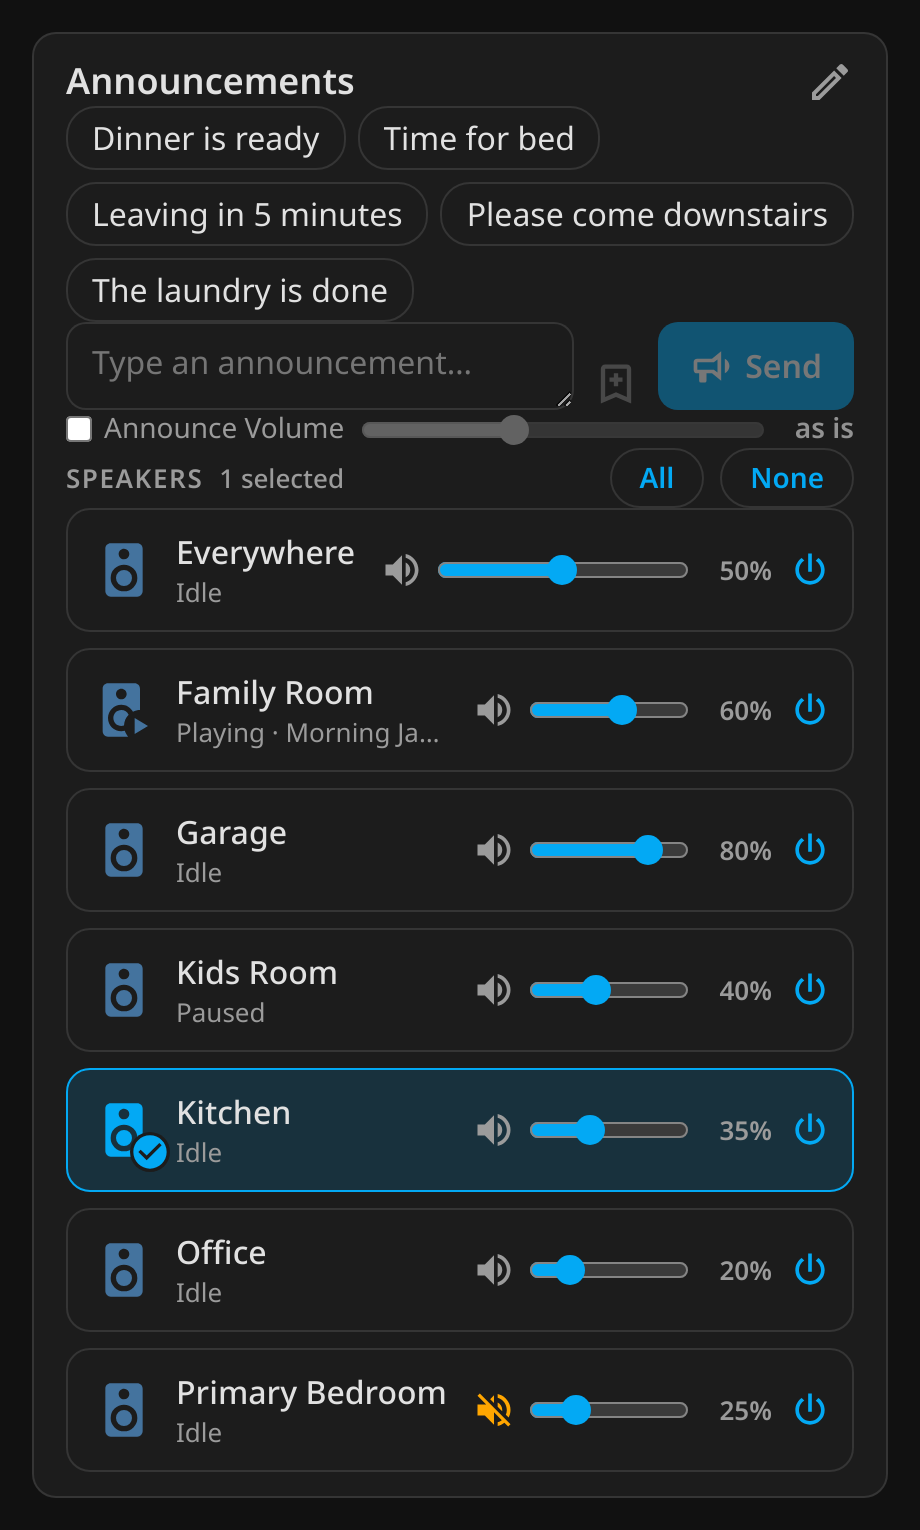
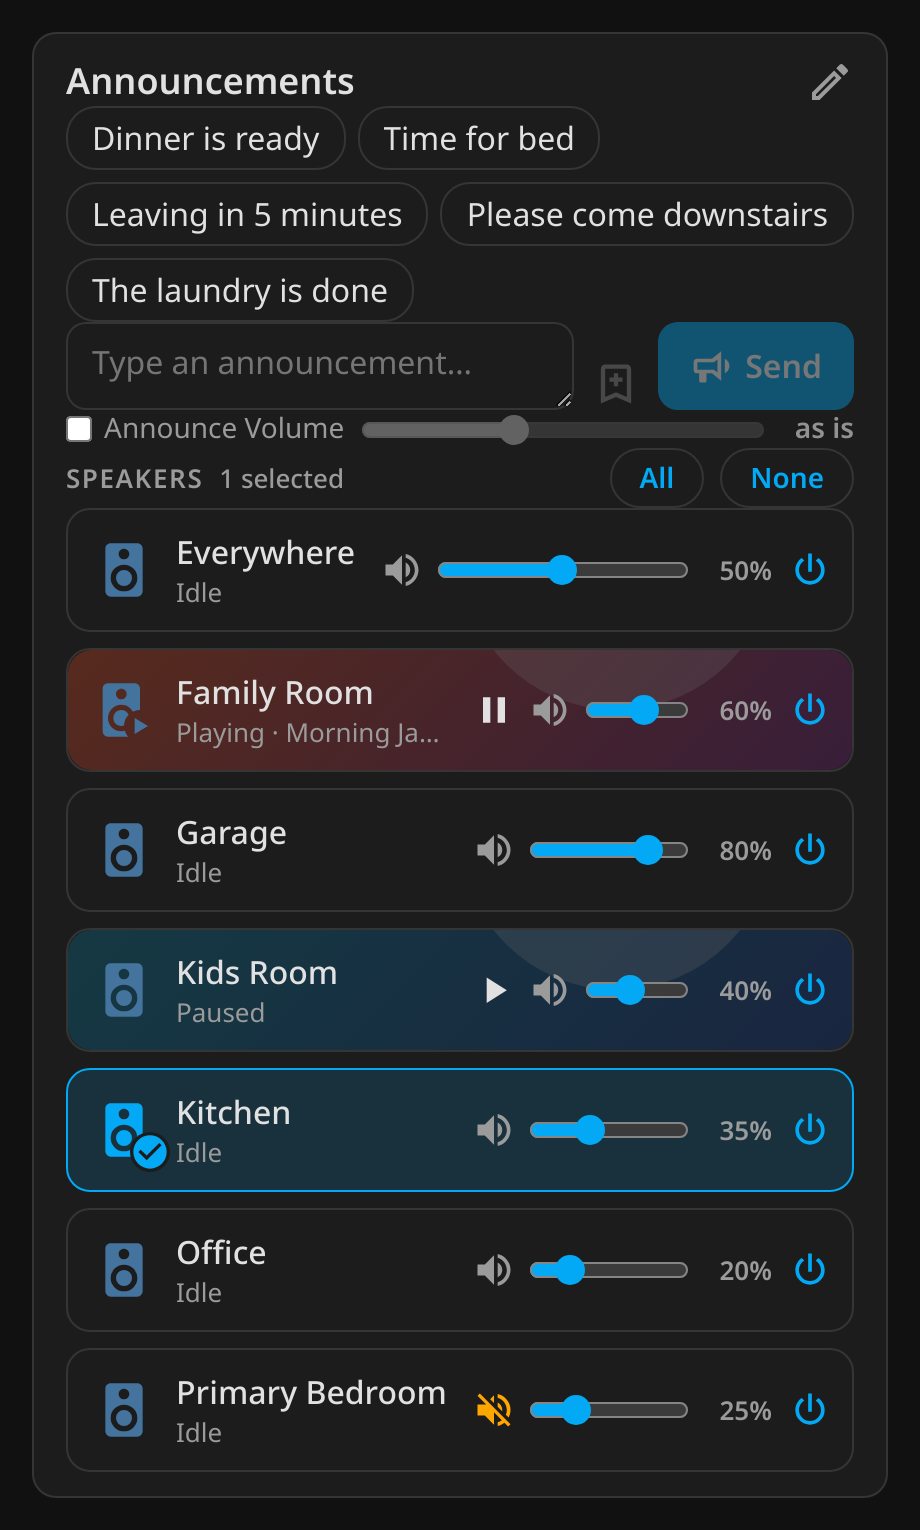
v2026.11.23.8: Pause button; artwork as the tile background or thumbnail

Changed region(s): [[0.0609, 0.5837, 0.9435, 0.7065], [0.0609, 0.3993, 0.9435, 0.5222]]

diff --git a/easy-announce-card.js b/easy-announce-card.js
@@ -1,5 +1,5 @@
 // Easy Announce Card (Ltek) — Home Assistant Dashboard card for Alexa announcements
-// Version: v2026.11.19.7
+// Version: v2026.11.23.8
 //
 // Type a message (or tap a preset), pick the speakers, press Send. One call reaches every
 // selected speaker:
@@ -30,7 +30,7 @@
 // interpolated into it); per-card values are custom properties set inline on the card root.
 // The card renders once and patches itself on every state change.
 
-const BUILD_NUMBER = 'v2026.11.19.7';
+const BUILD_NUMBER = 'v2026.11.23.8';
 const VERSION = BUILD_NUMBER.slice(1);
 const CARD_TAG = 'easy-announce-card';
 const EDITOR_TAG = 'easy-announce-card-editor';
@@ -41,7 +41,7 @@ const ALEXA_PLATFORM = 'alexa_media';
 const PLACEHOLDERS = new Set(['', '---', '--', '-', 'select...', 'select…', 'select', 'none', 'unknown']);
 const UNAVAILABLE = new Set(['unavailable', 'unknown']);
 // media_player supported_features bits (MediaPlayerEntityFeature)
-const FEAT = { VOLUME_SET: 4, VOLUME_MUTE: 8, TURN_ON: 128, TURN_OFF: 256 };
+const FEAT = { PAUSE: 1, VOLUME_SET: 4, VOLUME_MUTE: 8, TURN_ON: 128, TURN_OFF: 256, STOP: 4096, PLAY: 16384 };
 // Pause after setting the announcement volume, so the speaker has it before the announcement starts.
 const VOLUME_SETTLE_MS = 500;
 
@@ -82,6 +82,9 @@ const DEFAULTS = {
   show_volume_value: true,
   show_mute: true,
   show_power: false,
+  show_pause: true,
+  artwork: 'background',
+  artwork_opacity: 35,
   show_announce_volume: true,
   announce_volume: 0,
   restore_volume: true,
@@ -120,6 +123,7 @@ const ICON_ITEMS = [
   ['check_icon', 'Selected check mark', 20, 'Selected color', '#03a9f4', 'var(--ean-c-selected)'],
   ['mute_icon', 'Mute button', 22, ...ICO, ['mute_icon_muted_color', 'When muted', 'Theme warning', '#ffa600', 'var(--warning-color, #f4b942)']],
   ['power_icon', 'Power button', 22, ...ICO, ['power_icon_on_color', 'When on', 'Selected color', '#03a9f4', 'var(--ean-c-selected)']],
+  ['pause_icon', 'Pause / play button', 22, 'Theme text', '#e1e1e1', 'var(--primary-text-color)'],
 ];
 const WEIGHTS = [[300, 'Light'], [400, 'Normal'], [500, 'Medium'], [600, 'Semibold'], [700, 'Bold'], [800, 'Extra bold']];
 for (const [item, , size, weight] of TEXT_ITEMS) { DEFAULTS[`${item}_size`] = size; DEFAULTS[`${item}_weight`] = weight; }
@@ -151,7 +155,7 @@ const BORDER_STYLES = [['solid', 'Solid'], ['dashed', 'Dashed'], ['dotted', 'Dot
 // What a speaker tile is styled with; the Everywhere tile can override every one of them
 // (everywhere_<key>; unset = the same as the other tiles).
 const TILE_TEXT = ['name', 'state', 'vol_value'];
-const TILE_ICONS = ['speaker_icon', 'check_icon', 'mute_icon', 'power_icon'];
+const TILE_ICONS = ['speaker_icon', 'check_icon', 'mute_icon', 'power_icon', 'pause_icon'];
 const EW = 'everywhere_';
 for (const d of COLOR_DEFS.filter(([k]) => FRAME_COLORS.some(([f]) => f === k) || TILE_TEXT.some((i) => k === `${i}_color`)
   || TILE_ICONS.some((i) => k === `${i}_color` || k.startsWith(`${i}_`) && k.endsWith('_color')))) {
@@ -324,15 +328,44 @@ function placeEverywhere(list, c) {
 function features(st) { return Number((st && st.attributes && st.attributes.supported_features) || 0); }
 const can = (s, bit) => (s.features & bit) === bit;
 
-/** Which controls a speaker's tile shows: { volume, mute, power }, by option and by what it supports. */
+/** Which controls a speaker's tile shows: { volume, mute, power, pause }, by option and by what it supports. */
 function tileControls(c, s) {
-  if (!s.available) return { volume: false, mute: false, power: false };
+  if (!s.available) return { volume: false, mute: false, power: false, pause: false };
   return {
     volume: !!cfg(c, 'show_volume') && can(s, FEAT.VOLUME_SET),
     mute: !!cfg(c, 'show_mute') && can(s, FEAT.VOLUME_MUTE),
     power: !!cfg(c, 'show_power') && (can(s, FEAT.TURN_ON) || can(s, FEAT.TURN_OFF)),
+    pause: !!cfg(c, 'show_pause') && (can(s, FEAT.PAUSE) || can(s, FEAT.STOP)),
   };
 }
+
+/**
+ * The pause button for a speaker's state: null when there's nothing to pause or resume (it hides),
+ * else { icon, title, service }. Playing → pause (stop if it can't pause); paused → play.
+ */
+function pauseAction(st) {
+  if (!st) return null;
+  const f = features(st);
+  if (st.state === 'playing' || st.state === 'buffering') {
+    return (f & FEAT.PAUSE) ? { icon: 'mdi:pause', title: 'Pause', service: 'media_pause' }
+      : (f & FEAT.STOP) ? { icon: 'mdi:stop', title: 'Stop', service: 'media_stop' } : null;
+  }
+  if (st.state === 'paused') {
+    return (f & FEAT.PLAY) ? { icon: 'mdi:play', title: 'Play', service: 'media_play' }
+      : (f & FEAT.PAUSE) ? { icon: 'mdi:play', title: 'Play', service: 'media_play_pause' } : null;
+  }
+  return null;
+}
+
+/** The artwork to show for a speaker: its entity_picture while it's playing or paused, else ''. */
+function artworkUrl(st) {
+  if (!st || !['playing', 'paused', 'buffering'].includes(st.state)) return '';
+  const a = st.attributes || {};
+  return typeof a.entity_picture === 'string' ? a.entity_picture.trim() : '';
+}
+
+/** A url() for CSS from an untrusted string, quoted so it can't break out of the property. */
+const cssUrl = (u) => `url("${String(u).replace(/[\\"\n\r]/g, (ch) => (ch === '\n' || ch === '\r' ? '' : `\\${ch}`))}")`;
 
 /** How long to wait before restoring the volume, in ms: the set time, or chime + ~14 characters a second. */
 function restoreDelayMs(c, message) {
@@ -524,6 +557,16 @@ const CARD_CSS = `
     color: var(--primary-text-color); font-family: inherit; text-align: left; transition: border-color .15s ease, background-color .15s ease; }
   .tile:hover { border-color: color-mix(in srgb, var(--ean-c-selected) 60%, var(--ean-tile-bc)); }
   .tile.on { border-color: var(--ean-tile-bc-on); background: var(--ean-tile-bg-on); }
+  /* Artwork: behind everything in the tile (background), or in place of the speaker icon (thumbnail). */
+  .tile .art { position: absolute; inset: 0; border-radius: inherit; background-size: cover; background-position: center; opacity: var(--ean-art-op);
+    pointer-events: none; display: none; }
+  .tile.has-art .art { display: block; }
+  .tile > .tile-top, .tile > .ctl { position: relative; z-index: 1; }
+  .tile > .tile-power, .tile > .tile-pause { z-index: 1; }
+  .spk-wrap .thumb { display: none; width: var(--ean-speaker_icon-sz); height: var(--ean-speaker_icon-sz); border-radius: 6px;
+    background-size: cover; background-position: center; }
+  .tile.has-thumb .spk-wrap .thumb { display: block; }
+  .tile.has-thumb .spk-wrap .spk-icon { display: none; }
   .tile.off { opacity: .45; cursor: default; }
   .tile.tile-row { grid-column: 1 / -1; }
   .tile:focus-visible { outline: 2px solid var(--ean-c-selected); outline-offset: 1px; }
@@ -541,6 +584,11 @@ const CARD_CSS = `
   /* Power sits in the tile's top right corner. */
   .tile .tile-power { position: absolute; top: 8px; right: 10px; }
   .tile.compact .tile-power { top: 50%; transform: translateY(-50%); }
+  .tile .tile-pause { position: absolute; top: 8px; right: 10px; }
+  .tile.has-power .tile-pause { right: calc(var(--ean-power_icon-sz) + 20px); }
+  /* Room for the corner buttons beside the name, only while the pause button shows. */
+  .tile.pausing:not(.compact) .txt { padding-right: calc(var(--ean-pause_icon-sz) + 6px); }
+  .tile.pausing.has-power:not(.compact) .txt { padding-right: calc(var(--ean-pause_icon-sz) + var(--ean-power_icon-sz) + 16px); }
   .vol-val { flex: none; min-width: 2.7em; text-align: right; font-variant-numeric: tabular-nums; white-space: nowrap;
     font-size: var(--ean-vol_value-fs); font-weight: var(--ean-vol_value-fw); color: var(--ean-vol_value-c); }
   .ctl { display: flex; align-items: center; gap: 6px; min-width: 0; cursor: default; }
@@ -551,6 +599,9 @@ const CARD_CSS = `
   .ctl-btn[data-power] { color: var(--ean-power_icon-c); }
   .ctl-btn[data-power] ha-icon { --mdc-icon-size: var(--ean-power_icon-sz); width: var(--ean-power_icon-sz); height: var(--ean-power_icon-sz); }
   .ctl-btn[data-power].on { color: var(--ean-power_icon_on-c); }
+  .ctl-btn[data-pause] { color: var(--ean-pause_icon-c); }
+  .ctl-btn[data-pause] ha-icon { --mdc-icon-size: var(--ean-pause_icon-sz); width: var(--ean-pause_icon-sz); height: var(--ean-pause_icon-sz); }
+  .ctl-btn[data-pause][hidden] { display: none; }
   input.vol { flex: 1 1 auto; min-width: 0; width: 100%; margin: 0; accent-color: var(--ean-c-selected); cursor: pointer; }
   .avol { display: flex; align-items: center; gap: 8px; font-size: var(--ean-avol-fs); font-weight: var(--ean-avol-fw); color: var(--ean-avol-c); }
   .avol label { display: inline-flex; align-items: center; gap: 6px; cursor: pointer; white-space: nowrap; }
@@ -618,6 +669,7 @@ function rootStyleVars(c) {
   return [
     `--ean-cols-l:${gridColumns(cfg(c, 'columns_landscape'), c)}`, `--ean-cols-p:${gridColumns(cfg(c, 'columns_portrait'), c)}`,
     ...FRAME_COLORS.map(([k]) => `--ean-${FRAME_VAR[k]}:${color(k)}`),
+    `--ean-art-op:${Math.max(5, Math.min(100, Number(cfg(c, 'artwork_opacity')) || 35)) / 100}`,
     `--ean-tile-bw:${px('tile_border_width')}`, `--ean-tile-r:${px('tile_border_radius')}`, `--ean-tile-bs:${borderStyle(cfg(c, 'tile_border_style'))}`,
     `--ean-c-selected:${color('color_selected')}`, `--ean-c-send:${color('color_send')}`,
     ...TEXT_ITEMS.flatMap(([item]) => [`--ean-${item}-fs:${px(`${item}_size`)}`, `--ean-${item}-fw:${Number(cfg(c, `${item}_weight`))}`,
@@ -766,19 +818,27 @@ class EasyAnnounceCard extends HTMLElement {
     }
     const showState = this._c('show_state');
     const ewVars = everywhereStyleVars(this._config);
+    const art = this._c('artwork');
+    const compact = this._c('tile_layout') === 'compact';
+    // Pause: in the controls row on compact tiles; in the top corner (beside power) on stacked tiles,
+    // where the controls row has no room to spare. data-ctl: it never selects the tile.
+    const pauseBtn = (cls, id) => `<button class="ctl-btn${cls}" data-ctl data-pause="${id}" title="Pause" hidden><ha-icon icon="mdi:pause"></ha-icon></button>`;
     return this._speakers.map((s) => {
       const k = tileControls(this._config, s);
       const id = esc(s.id);
-      const ctl = k.volume || k.mute ? `<div class="ctl" data-ctl>
+      const ctl = k.volume || k.mute || k.pause ? `<div class="ctl" data-ctl>
+          ${k.pause && compact ? pauseBtn('', id) : ''}
           ${k.mute ? `<button class="ctl-btn" data-mute="${id}" title="Mute"><ha-icon icon="mdi:volume-high"></ha-icon></button>` : ''}
           ${k.volume ? `<input type="range" class="vol" data-vol="${id}" min="0" max="100" step="1" aria-label="Volume">` : ''}
           ${k.volume && this._c('show_volume_value') ? `<span class="vol-val" data-vol-val></span>` : ''}</div>` : '';
       // data-ctl: tapping the power button never selects the tile.
+      const corner = k.pause && !compact ? pauseBtn(' tile-pause', id) : '';
       const power = k.power ? `<button class="ctl-btn tile-power" data-ctl data-power="${id}" title="Power"><ha-icon icon="mdi:power"></ha-icon></button>` : '';
       return `<div class="tile${s.everywhere === 'row' ? ' tile-row' : ''}${this._c('tile_layout') === 'compact' ? ' compact' : ''}${k.power ? ' has-power' : ''}" role="button" tabindex="${s.available ? 0 : -1}" data-spk="${id}" title="${id}"${s.everywhere && ewVars ? ` style="${esc(ewVars)}" data-everywhere` : ''}>
-        <div class="tile-top"><span class="spk-wrap"><ha-icon class="spk-icon" icon="mdi:speaker"></ha-icon><span class="check"><ha-icon icon="mdi:check-circle"></ha-icon></span></span>
+        ${art === 'background' ? '<span class="art" data-art></span>' : ''}
+        <div class="tile-top"><span class="spk-wrap"><ha-icon class="spk-icon" icon="mdi:speaker"></ha-icon>${art === 'thumbnail' ? '<span class="thumb" data-thumb></span>' : ''}<span class="check"><ha-icon icon="mdi:check-circle"></ha-icon></span></span>
         <span class="txt"><span class="name">${esc(s.name)}</span>${showState ? '<span class="state" data-state></span>' : ''}</span></div>
-        ${ctl}${power}</div>`;
+        ${ctl}${corner}${power}</div>`;
     }).join('');
   }
 
@@ -859,6 +919,12 @@ class EasyAnnounceCard extends HTMLElement {
       const muted = !!(st && st.attributes && st.attributes.is_volume_muted);
       this._hass.callService('media_player', 'volume_mute', { entity_id: b.dataset.mute, is_volume_muted: !muted })
         .catch((e) => this._setStatus('err', `Mute failed: ${errText(e)}`));
+    }));
+    scope.querySelectorAll('[data-pause]').forEach((b) => b.addEventListener('click', () => {
+      const act = pauseAction(this._hass.states[b.dataset.pause]);
+      if (!act) return;
+      this._hass.callService('media_player', act.service, { entity_id: b.dataset.pause })
+        .catch((e) => this._setStatus('err', `${act.title} failed: ${errText(e)}`));
     }));
     scope.querySelectorAll('[data-power]').forEach((b) => b.addEventListener('click', () => {
       const st = this._hass.states[b.dataset.power];
@@ -1012,6 +1078,27 @@ class EasyAnnounceCard extends HTMLElement {
       }
       const pw = el.querySelector('[data-power]');
       if (pw) { const isOn = !!st && st.state !== 'off' && st.state !== 'standby'; pw.classList.toggle('on', isOn); pw.title = isOn ? 'Turn off' : 'Turn on'; }
+      const pb = el.querySelector('[data-pause]');
+      if (pb) {
+        const act = pauseAction(st);
+        pb.hidden = !act;
+        el.classList.toggle('pausing', !!act);
+        if (act) {
+          const ic = pb.querySelector('ha-icon');
+          if (ic.getAttribute('icon') !== act.icon) ic.setAttribute('icon', act.icon);
+          pb.title = act.title;
+        }
+      }
+      // Artwork (style set as a property, never through HTML)
+      const artEl = el.querySelector('[data-art]') || el.querySelector('[data-thumb]');
+      if (artEl) {
+        const url = s.available ? artworkUrl(st) : '';
+        if (artEl._url !== url) {
+          artEl._url = url;
+          artEl.style.backgroundImage = url ? cssUrl(url) : '';
+        }
+        el.classList.toggle(artEl.dataset.art !== undefined ? 'has-art' : 'has-thumb', !!url);
+      }
     }
     this._patchAvol();
     const count = root.querySelector('[data-count]');
@@ -1322,7 +1409,7 @@ const EDITOR_CSS = `
 
 // Settings that show or hide other settings: changing one re-renders the editor.
 const REVEAL_KEYS = new Set(['show_volume', 'show_volume_value', 'orientation', 'auto_fit', 'everywhere_style', 'tile_layout', 'send_with', 'presets_entity', 'show_message_box', 'speaker_source', 'hide_unavailable', 'tap_action', 'preset_style',
-  'show_announce_volume', 'restore_volume', 'show_state', 'show_select_all', 'show_mute', 'show_power', 'allow_edit_presets']);
+  'show_announce_volume', 'restore_volume', 'show_state', 'show_select_all', 'show_mute', 'show_power', 'show_pause', 'artwork', 'allow_edit_presets']);
 // Slider readouts that aren't px.
 const SLIDER_FMT = {
   columns_landscape: (n) => (Number(n) ? String(n) : 'Auto'),
@@ -1330,6 +1417,7 @@ const SLIDER_FMT = {
   announce_volume: (n) => (Number(n) ? `${n}%` : 'Off'),
   restore_after: (n) => (Number(n) ? `${n} s` : 'Auto'),
   auto_min_width: (n) => (Number(n) ? `${n}px` : 'Default'),
+  artwork_opacity: (n) => `${n}%`,
 };
 const fmtSlider = (key, n) => (SLIDER_FMT[key] ? SLIDER_FMT[key](n) : `${n}px`);
 
@@ -1505,6 +1593,9 @@ class EasyAnnounceCardEditor extends HTMLElement {
       <p class="eane-hint">Clear the title to hide it.</p>
       <div class="eane-group">Speakers</div>
       ${this._select('tile_layout', 'Tiles', [['stacked', 'Stacked (controls under the name)'], ['compact', 'Compact (controls beside the name)']])}
+      ${this._select('artwork', 'Artwork', [['background', 'Tile background'], ['thumbnail', 'In place of the speaker icon'], ['off', 'Off']])}
+      ${this._c('artwork') !== 'off' ? `<p class="eane-hint">The album art or poster of what a speaker is playing, while it plays or is paused.</p>` : ''}
+      ${this._c('artwork') === 'background' ? this._slider('artwork_opacity', 'Artwork strength', 5, 100) : ''}
       <div class="eane-group">Columns</div>
       ${this._select('orientation', 'Orientation', [['auto', 'Follow the screen'], ['landscape', 'Always landscape'], ['portrait', 'Always portrait']])}
       <p class="eane-hint">${this._c('orientation') === 'auto'
@@ -1533,6 +1624,7 @@ class EasyAnnounceCardEditor extends HTMLElement {
       ${this._check('show_volume', 'Volume slider')}
       ${this._c('show_volume') ? this._check('show_volume_value', 'Volume value', '(35% beside the slider)') : ''}
       ${this._check('show_mute', 'Mute button')}
+      ${this._check('show_pause', 'Pause button', '(while it plays; tap again to resume)')}
       ${this._check('show_power', 'Power button')}
       <div class="eane-group">Announcement volume</div>
       ${this._check('show_announce_volume', 'Show "Announce Volume" by the message', '(a switch and a slider)')}
@@ -1625,6 +1717,7 @@ class EasyAnnounceCardEditor extends HTMLElement {
       ['look-tiles', 'Speaker tiles', [this._frameStyle('', true), this._textStyle('name'), ...(this._c('show_state') ? [this._textStyle('state')] : []),
         this._iconStyle('speaker_icon'), this._iconStyle('check_icon'),
         ...(this._c('show_volume') && this._c('show_volume_value') ? [this._textStyle('vol_value')] : []),
+        ...(this._c('show_pause') ? [this._iconStyle('pause_icon')] : []),
         ...(this._c('show_mute') ? [this._iconStyle('mute_icon')] : []), ...(this._c('show_power') ? [this._iconStyle('power_icon')] : [])]],
       ['look-everywhere', 'Everywhere tile', [
         `<p class="eane-hint">Alexa's Everywhere speaker${this._hass && !discoverSpeakers(this._hass, this._config).some((s) => s.everywhere)
@@ -1635,6 +1728,7 @@ class EasyAnnounceCardEditor extends HTMLElement {
           this._frameStyle(EW, true), this._ovTextStyle('name'), ...(this._c('show_state') ? [this._ovTextStyle('state')] : []),
           ...(this._c('show_volume') && this._c('show_volume_value') ? [this._ovTextStyle('vol_value')] : []),
           this._ovIconStyle('speaker_icon'), this._ovIconStyle('check_icon'),
+          ...(this._c('show_pause') ? [this._ovIconStyle('pause_icon')] : []),
           ...(this._c('show_mute') ? [this._ovIconStyle('mute_icon')] : []), ...(this._c('show_power') ? [this._ovIconStyle('power_icon')] : [])]
           : ['<p class="eane-hint">Off: it looks like the other tiles.</p>'])]],
       ['look-status', 'Status line', [this._textStyle('status', true)]],
@@ -1743,7 +1837,7 @@ EasyAnnounceCard._test = {
   BUILD_NUMBER, VERSION, CARD_CSS, EDITOR_CSS, DEFAULTS, COLOR_DEFS, VIEWS,
   normalizeConfig, discoverSpeakers, cleanName, globRe, excluded, readPresets, planOptions, isPlaceholder,
   buildCall, setupProblem, rootStyleVars, colorMode, speakerState, viewKey,
-  TEXT_ITEMS, ICON_ITEMS, FRAME_COLORS, EW_KEYS, everywhereStyleVars, tileFitWidth, usesNameFit, isThisDevice, effectiveOrientation, gridColumns, tileControls, restoreDelayMs, restoreLevels, scheduleRestore, RESTORES, FEAT,
+  pauseAction, artworkUrl, cssUrl, TEXT_ITEMS, ICON_ITEMS, FRAME_COLORS, EW_KEYS, everywhereStyleVars, tileFitWidth, usesNameFit, isThisDevice, effectiveOrientation, gridColumns, tileControls, restoreDelayMs, restoreLevels, scheduleRestore, RESTORES, FEAT,
 };
 
 if (!customElements.get(CARD_TAG)) customElements.define(CARD_TAG, EasyAnnounceCard);

diff --git a/README.md b/README.md
@@ -18,6 +18,8 @@ speakers, press **Send**. One call reaches every speaker you picked. History is 
 - **Pick several speakers**, or tap the All / None chips, and send once. Or set the card to announce as soon as you tap a speaker.
 - Each speaker shows what it's doing (Idle, Paused, Playing · song), with its own **volume slider**, **mute** and
   **power** buttons. Each one can be shown or hidden.
+- **Pause button** on each speaker while it plays (tap again to resume), and the **album art or poster** of what
+  it's playing as the tile background, or in place of the speaker icon.
 - **Announce Volume:** every selected speaker is set to it just before the announcement, and can be
   put back to its earlier volume afterwards.
 - **Sends with Alexa Media Player directly** (`notify.alexa_media`, announce or speak), **or through your own
@@ -46,6 +48,10 @@ speakers, press **Send**. One call reaches every speaker you picked. History is 
 | Auto columns, fitted to the names | Tile and Everywhere styling |
 |---|---|
 | ![Auto columns](screenshots/09-autofit.png) | ![Tile styling](screenshots/11-tile-style.png) |
+
+| Artwork as the tile background | Artwork in place of the icon |
+|---|---|
+| ![Artwork background](screenshots/14-artwork.png) | ![Artwork thumbnail](screenshots/15-artwork-thumb.png) |
 
 | Styled text and icons | Appearance settings |
 |---|---|
@@ -142,6 +148,8 @@ Every option is in the visual editor.
 | `orientation` | `auto` | `auto` follows the screen (portrait when it's taller than wide); `landscape` or `portrait` always uses that count. |
 | `columns_landscape` | `3` | Speaker columns in landscape; `0` fits as many as there's room for. |
 | `columns_portrait` | `2` | Speaker columns in portrait; `0` fits as many as there's room for. |
+| `artwork` | `background` | What a speaker is playing (its album art or poster), while it plays or is paused: `background` behind the tile, `thumbnail` in place of the speaker icon, or `off`. |
+| `artwork_opacity` | `35` | How strongly the background artwork shows, in % (5–100). |
 | `tile_layout` | `stacked` | `stacked`: volume controls under the name. `compact`: beside it. |
 | `auto_fit` | `names` | For a column count of `0`: `names` makes each tile wide enough for the longest speaker name and state; `width` uses `auto_min_width`. |
 | `auto_min_width` | `0` | Minimum tile width in px for `auto_fit: width`. `0` = 150 (260 for compact tiles). |
@@ -153,6 +161,7 @@ Every option is in the visual editor.
 | `show_volume_value` | `true` | The speaker's volume (35%) beside its slider. |
 | `show_mute` | `true` | Mute button on each speaker. |
 | `show_power` | `false` | Power button on each speaker, in the tile's top right corner. |
+| `show_pause` | `true` | Pause button while a speaker plays; play while it's paused. Stop on speakers that can't pause. In the top corner on stacked tiles, in the controls row on compact ones. |
 | `show_announce_volume` | `true` | The "Announce Volume" switch and slider by the message. |
 | `announce_volume` | `0` | The level "Announce Volume" starts at, in %. `0` = starts switched off. |
 | `restore_volume` | `true` | Put each speaker back to its volume from before the announcement. |
@@ -163,7 +172,7 @@ Every option is in the visual editor.
 | `tile_border_color`, `tile_selected_border_color` | theme divider, the selected color | Tile border, normal and selected. |
 | `tile_border_width`, `tile_border_style`, `tile_border_radius` | `1`, `solid`, `12` | Border width (px), style (`solid`, `dashed`, `dotted`, `double`, `none`) and corner radius (px). |
 | `everywhere_style` | `false` | Style the Everywhere tile on its own. |
-| `everywhere_<key>` | same as other tiles | With `everywhere_style`, any tile setting for the Everywhere tile only: the background and border keys above, `name_*`, `state_*`, `vol_value_*`, `speaker_icon_*`, `check_icon_*`, `mute_icon_*` and `power_icon_*`. For example `everywhere_tile_background`, `everywhere_name_size`. |
+| `everywhere_<key>` | same as other tiles | With `everywhere_style`, any tile setting for the Everywhere tile only: the background and border keys above, `name_*`, `state_*`, `vol_value_*`, `speaker_icon_*`, `check_icon_*`, `mute_icon_*`, `power_icon_*` and `pause_icon_*`. For example `everywhere_tile_background`, `everywhere_name_size`. |
 | `<text>_size`, `<text>_weight`, `<text>_color` | see below | Each piece of text, on its own. |
 | `<icon>_size`, `<icon>_color` | see below | Each icon, on its own. |
 
@@ -179,6 +188,7 @@ Colors take a theme variable (`var(--accent-color)`), a hex color or any CSS col
 | `avol_value` (volume readout) | 14, 600 | | `check_icon` (selected mark) | 20 | |
 | `section` ("Speakers" heading) | 13, 600 | | `mute_icon` | 22 | `mute_icon_muted_color` (muted) |
 | `count` (selected count) | 13, 500 | | `power_icon` | 22 | `power_icon_on_color` (on) |
+| | | | `pause_icon` (pause / play) | 22 | |
 | `links` (All / None chips) | 14, 600 | | | | |
 | `name` (speaker names) | 16, 500 | | | | |
 | `state` (speaker state) | 13, 400 | | | | |

diff --git a/CHANGELOG.md b/CHANGELOG.md
@@ -1,5 +1,15 @@
 # Changelog
 
+## v2026.11.23.8
+
+- **Pause button** (`show_pause`, on by default): shows on a speaker while it plays and pauses it; while paused
+  it shows ▶ and resumes. Speakers that can't pause get Stop instead. It sits in the tile's top corner on
+  stacked tiles and in the controls row on compact tiles, and never selects the tile. Styled on its own in
+  Appearance (Pause / play button), for the Everywhere tile too.
+- **Artwork** (`artwork`, default `background`): the album art or poster of what a speaker is playing fills its
+  tile, faded so the name and controls stay readable (`artwork_opacity`, default 35%). `thumbnail` puts it in
+  place of the speaker icon instead; `off` turns it off. Only while the speaker is playing or paused.
+
 ## v2026.11.19.7
 
 - **Everywhere tile settings are easy to find:** Appearance always has an **Everywhere tile** sub-panel, with
